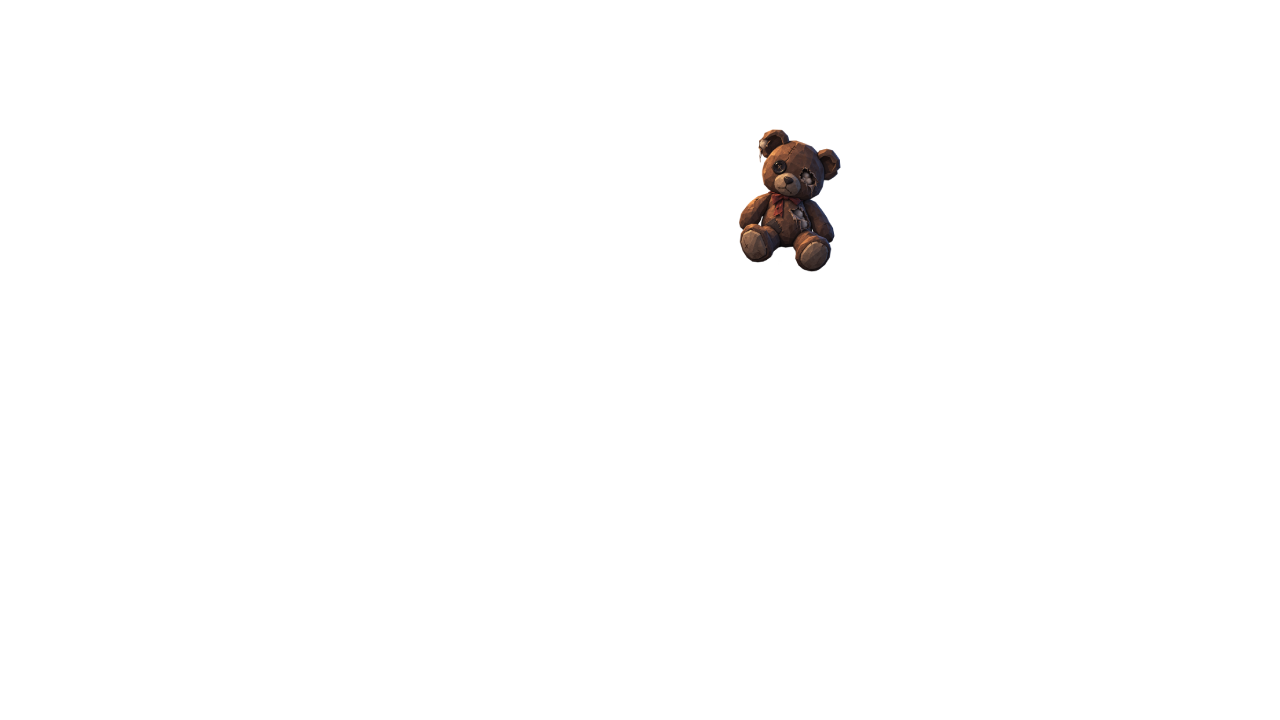
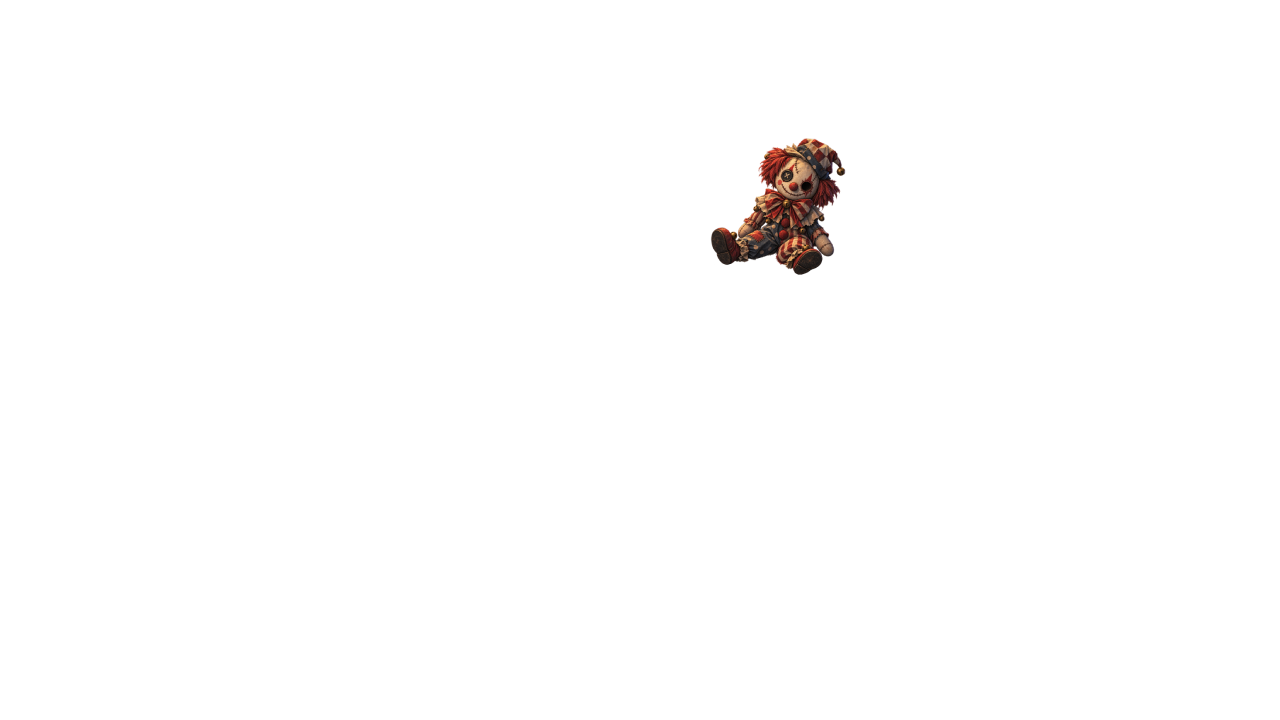
Add files via upload

Changed region(s): [[0.5312, 0.1833, 0.6562, 0.3972]]

diff --git a/game.html b/game.html
@@ -1341,6 +1341,7 @@
     "anomalyFiles": [
       "anomaly.png"
     ],
+    "anomaly2File": "anomaly_2.png",
     "spiderFrames": [
       "spider-1.png",
       "spider-2.png"
@@ -1659,6 +1660,11 @@
       12,
       14
     ]
+  },
+  "anomaly2": {
+    "enabled": true,
+    "startLevel": 10,
+    "allowedRooms": "all"
   },
   "spider": {
     "enabled": true,
@@ -2009,6 +2015,7 @@
       "levels.puzzleEndless.inOrderBatteryBonusSlots": [0, 12, true],
       "levels.puzzleEndless.tapTimeBonusSeconds": [0, 600, true],
       "levels.puzzleEndless.roomRotationEvery": [0, 1000000000, true],
+      "anomaly2.startLevel": [1, 1000000001, true],
       "anomaly.androidBrightness": [1, 2]
     });
     for (const name of ["puzzleEndless", "puzzleFlying", "singleRoomSequential", "singleRoomSpread", "singleRoomFixed"]) {
@@ -2028,7 +2035,7 @@
         value.every((level, index) => Number.isSafeInteger(level) && level >= 1 && level <= 1000000001 && (!index || level > value[index - 1]));
       if (/^levels\.(singleRoomSequential|singleRoomFixed)\.decoyChances$/.test(path)) return Array.isArray(value) && value.length >= 1 && value.length <= 32 &&
         value.every(chance => typeof chance === "number" && Number.isFinite(chance) && chance >= 0 && chance <= 1);
-      if (path === "anomaly.allowedRooms") return value === "all" || Array.isArray(value) && value.length <= 1000 &&
+      if (path === "anomaly.allowedRooms" || path === "anomaly2.allowedRooms") return value === "all" || Array.isArray(value) && value.length <= 1000 &&
         new Set(value).size === value.length && value.every(number => Number.isSafeInteger(number) && number >= 1 && number <= 1000000000);
       if (path === "doll.roomAssignments") return value !== null && typeof value === "object" && !Array.isArray(value) &&
         Object.keys(value).length <= 64 && Object.entries(value).every(([number, scenes]) =>
@@ -2270,9 +2277,6 @@
     let ROOM_NAME = "ROOM";
     let availableScenes = [];
     let currentScene = null;
-    let ANOMALY_FILES = CONFIG.assets.anomalyFiles;
-    let ANOMALY_CHECK_MS = CONFIG.anomaly.checkMs;
-    let ANOMALY_SPAWN_CHANCE = CONFIG.anomaly.spawnChance;
     let SPIDER_FRAME_FILES = CONFIG.assets.spiderFrames;
     let SPIDER_SOUND_FILE = CONFIG.assets.spiderSound;
     let SPIDER_CHECK_MS = CONFIG.spider.checkMs;
@@ -2294,9 +2298,6 @@
       WORDS_TIMEOUT_MS = CONFIG.loading.wordsTimeoutMs;
       LEVELS_DIRECTORY = CONFIG.assets.levelsDirectory;
       LEVEL_PROBE_GAP = CONFIG.loading.levelProbeGap;
-      ANOMALY_FILES = CONFIG.assets.anomalyFiles;
-      ANOMALY_CHECK_MS = CONFIG.anomaly.checkMs;
-      ANOMALY_SPAWN_CHANCE = CONFIG.anomaly.spawnChance;
       SPIDER_FRAME_FILES = CONFIG.assets.spiderFrames;
       SPIDER_SOUND_FILE = CONFIG.assets.spiderSound;
       SPIDER_CHECK_MS = CONFIG.spider.checkMs;
@@ -2656,8 +2657,8 @@
 
     let completedWordCount = 0;
     let roomCompleted = false;
-    let anomalyEnabled = false;
     let anomalyTimer = null;
+    let anomalyChecking = false;
     let anomalyActive = false;
     let anomalyHasBeenSeen = false;
     let anomalyMeta = null;
@@ -4190,10 +4191,7 @@
       dismissClueIntro();
       anchors.forEach(anchor => { anchor.hidden = true; });
       showCurrentLetter();
-      if (CONFIG.anomaly.enabled && levelIsUnlocked(CONFIG.anomaly.startLevel) && completedWordCount >= anomalyWordThreshold()) {
-        anomalyEnabled = true;
-        scheduleAnomalyCheck(encounterDelays?.anomaly);
-      }
+      scheduleAnomalyCheck(encounterDelays?.anomaly);
       scheduleNextHandCheck(encounterDelays?.hand);
       scheduleSpiderCheck(encounterDelays?.spider);
     }
@@ -5271,10 +5269,7 @@
       resumeLevelTimeouts();
       resumeCameraTimer();
       resumeSpiderEncounter();
-      if (!anomalyEnabled && CONFIG.anomaly.enabled && levelIsUnlocked(CONFIG.anomaly.startLevel) && completedWordCount >= anomalyWordThreshold()) {
-        anomalyEnabled = true;
-        scheduleAnomalyCheck();
-      }
+      scheduleAnomalyCheck();
       if (spiderTimer === null && !spiderActive) scheduleSpiderCheck();
       if (handTimer === null && !handVisible) scheduleNextHandCheck();
     }
@@ -5320,10 +5315,7 @@
         clearLevelTimeout(handTimer);
         stopSpiderEncounter();
       }
-      if (!endless && !roomCompleted && CONFIG.anomaly.enabled && !anomalyEnabled && levelIsUnlocked(CONFIG.anomaly.startLevel) && completedWordCount >= anomalyWordThreshold()) {
-        anomalyEnabled = true;
-        scheduleAnomalyCheck();
-      }
+      if (!endless && !roomCompleted) scheduleAnomalyCheck();
       if (!endless && !roomCompleted && !spiderActive && spiderTimer === null) scheduleSpiderCheck();
       message.classList.remove("show");
       refreshMessageBitmap();
@@ -6008,28 +6000,43 @@
       stopSpiderSound();
     }
 
-    function anomalyRoomIsAllowed(number = currentScene?.number) {
-      return CONFIG.anomaly.allowedRooms === "all" || CONFIG.anomaly.allowedRooms.includes(number);
+    function unlockedAnomalyVariants() {
+      if (completedWordCount < anomalyWordThreshold()) return [];
+      return [
+        { rules: CONFIG.anomaly, files: CONFIG.assets.anomalyFiles },
+        { rules: CONFIG.anomaly2, files: [CONFIG.assets.anomaly2File] }
+      ].filter(({ rules, files }) => rules.enabled && levelIsUnlocked(rules.startLevel) && files.length &&
+        (rules.allowedRooms === "all" || rules.allowedRooms.length));
     }
 
-    function scheduleAnomalyCheck(delay = ANOMALY_CHECK_MS) {
-      clearLevelTimeout(anomalyTimer);
-      anomalyTimer = null;
-      if (!CONFIG.anomaly.enabled || !levelIsUnlocked(CONFIG.anomaly.startLevel) || !anomalyEnabled || anomalyActive || gameOver || roomCompleted) return;
+    function scheduleAnomalyCheck(delay = CONFIG.anomaly.checkMs) {
+      if (anomalyTimer !== null || anomalyChecking || !gameplayStarted || anomalyActive || gameOver || roomCompleted ||
+          !unlockedAnomalyVariants().length) return;
       const generation = levelGeneration;
       anomalyTimer = levelTimeout(async () => {
         anomalyTimer = null;
-        if (!CONFIG.anomaly.enabled || !levelIsUnlocked(CONFIG.anomaly.startLevel) || !anomalyEnabled || anomalyActive || gameOver || roomCompleted) return;
-        if (anomalyRoomIsAllowed() && Math.random() < ANOMALY_SPAWN_CHANCE) {
-          const placed = await spawnAnomalyOffscreen();
-          if (generation === levelGeneration && !placed) scheduleAnomalyCheck();
-        } else {
+        if (anomalyActive || gameOver || roomCompleted) return;
+        const room = currentScene?.number;
+        const variants = unlockedAnomalyVariants().filter(({ rules }) =>
+          rules.allowedRooms === "all" || rules.allowedRooms.includes(room));
+        // One roll for both kinds, so the second doll doesn't double the spawn rate.
+        if (!variants.length || Math.random() >= CONFIG.anomaly.spawnChance) {
           scheduleAnomalyCheck();
+          return;
+        }
+        anomalyChecking = true;
+        try { await spawnAnomalyOffscreen(variants); }
+        catch (error) { console.warn("Could not place anomaly.", error); }
+        finally {
+          if (generation === levelGeneration) {
+            anomalyChecking = false;
+            scheduleAnomalyCheck();
+          }
         }
       }, delay);
     }
 
-    async function readAlphaBounds(src) {
+    async function readAlphaBounds(src, threshold = CONFIG.anomaly.alphaThreshold, knownArtwork = null) {
       return new Promise(resolve => {
         const img = new Image();
         img.onload = () => {
@@ -6043,7 +6050,7 @@
             let minX = canvas.width, minY = canvas.height, maxX = -1, maxY = -1;
             for (let y = 0; y < canvas.height; y++) {
               for (let x = 0; x < canvas.width; x++) {
-                if (data[(y * canvas.width + x) * 4 + 3] > CONFIG.anomaly.alphaThreshold) {
+                if (data[(y * canvas.width + x) * 4 + 3] > threshold) {
                   if (x < minX) minX = x;
                   if (x > maxX) maxX = x;
                   if (y < minY) minY = y;
@@ -6056,8 +6063,12 @@
               bbox: maxX >= minX ? { left: minX, top: minY, right: maxX + 1, bottom: maxY + 1 } : null
             });
           } catch (error) {
-            console.warn("Could not inspect anomaly alpha bounds; using full image bounds.", error);
-            resolve({ src, width: img.naturalWidth, height: img.naturalHeight, bbox: { left: 0, top: 0, right: img.naturalWidth, bottom: img.naturalHeight } });
+            const width = img.naturalWidth, height = img.naturalHeight;
+            if (knownArtwork?.width === width && knownArtwork.height === height) resolve({ src, width, height, bbox: knownArtwork.bbox });
+            else {
+              console.warn("Could not inspect anomaly alpha bounds; using full image bounds.", error);
+              resolve({ src, width, height, bbox: { left: 0, top: 0, right: width, bottom: height } });
+            }
           }
         };
         img.onerror = () => resolve(null);
@@ -6085,41 +6096,46 @@
       return a.left < b.right && a.right > b.left;
     }
 
-    async function spawnAnomalyOffscreen() {
-      if (gameplayPaused || endlessIntermission || menuPage !== null || !CONFIG.anomaly.enabled || !levelIsUnlocked(CONFIG.anomaly.startLevel) || !anomalyRoomIsAllowed() || anomalyActive || gameOver || roomCompleted || !renderedVideoWidth) return false;
+    async function spawnAnomalyOffscreen(variants) {
       const generation = levelGeneration;
       const spawnRoomIndex = activeRoomIndex;
-      const src = ANOMALY_FILES[Math.floor(Math.random() * ANOMALY_FILES.length)];
-      const meta = await readAlphaBounds(src);
-      if (generation !== levelGeneration || gameplayPaused || endlessIntermission || menuPage !== null || !meta || !meta.bbox || !CONFIG.anomaly.enabled || !levelIsUnlocked(CONFIG.anomaly.startLevel) || !anomalyRoomIsAllowed() || gameOver || roomCompleted || spawnRoomIndex !== activeRoomIndex) return false;
+      const canPlace = () => generation === levelGeneration && spawnRoomIndex === activeRoomIndex &&
+        !gameplayPaused && !endlessIntermission && menuPage === null && !gameOver && !roomCompleted && !anomalyActive && renderedVideoWidth > 0;
+      if (!canPlace()) return false;
+      for (const { files } of shuffleArray([...variants])) {
+        for (const src of shuffleArray([...files])) {
+          const threshold = CONFIG.anomaly.alphaThreshold;
+          // Local browsers can forbid canvas reads of file:// images. This
+          // fallback is measured from the supplied anomaly_2.png, used only
+          // for that file at its original dimensions. Live pixels take precedence.
+          const knownArtwork = new URL(src, document.baseURI).href === new URL(CONFIG_DEFAULTS.assets.anomaly2File, document.baseURI).href
+            ? { width: 1280, height: 720, bbox: { left: 0, top: 328, right: threshold === 8 ? 284 : 285, bottom: 720 } }
+            : null;
+          const meta = await readAlphaBounds(src, threshold, knownArtwork);
+          if (!canPlace()) return false;
+          if (!meta?.bbox) continue;
 
-      // The anomaly PNG is authored against the same full 1280x720 scene as
-      // the video. Keep the PNG fixed at the scene origin so its opaque pixels
-      // always land at their authored location; only the panorama itself pans.
-      const bbox = getScaledAnomalyBox(meta);
+          // The image stays aligned to the panorama; only its opaque artwork
+          // must be outside the viewport before it can spawn.
+          const bbox = getScaledAnomalyBox(meta);
+          const visible = currentVisibleWorldRange(), pad = CONFIG.anomaly.offscreenMarginPx;
+          if (horizontalBoxesIntersect(bbox, { left: visible.left - pad, right: visible.right + pad })) continue;
 
-      // Spawn only while the anomaly's ACTUAL non-transparent pixels are fully
-      // outside the current viewport. If its authored location is visible now,
-      // skip this checkpoint and try again on the next anomaly check.
-      const visible = currentVisibleWorldRange();
-      const edgePad = CONFIG.anomaly.offscreenMarginPx;
-      if (horizontalBoxesIntersect(
-        { left: bbox.left, right: bbox.right },
-        { left: visible.left - edgePad, right: visible.right + edgePad }
-      )) return false;
-
-      anomalyRoomIndex = activeRoomIndex;
-      anomalyWorld.style.display = "";
-      anomalyMeta = meta;
-      anomalyWorldBox = bbox;
-      anomalyHasBeenSeen = false;
-      anomalyActive = true;
-      anomalyImage.src = src;
-      setOverlayImageStyles(anomalyImage, anomalyBitmap, { left: "0px", top: "0px",
-        height: `${viewport.getBoundingClientRect().height}px`, width: `${renderedVideoWidth}px`, display: "block" });
-      anomalyWorld.style.width = `${renderedVideoWidth}px`;
-      anomalyWorld.style.height = `${viewport.getBoundingClientRect().height}px`;
-      return true;
+          anomalyRoomIndex = activeRoomIndex;
+          anomalyWorld.style.display = "";
+          anomalyMeta = meta;
+          anomalyWorldBox = bbox;
+          anomalyHasBeenSeen = false;
+          anomalyActive = true;
+          anomalyImage.src = src;
+          setOverlayImageStyles(anomalyImage, anomalyBitmap, { left: "0px", top: "0px",
+            height: `${viewport.getBoundingClientRect().height}px`, width: `${renderedVideoWidth}px`, display: "block" });
+          anomalyWorld.style.width = `${renderedVideoWidth}px`;
+          anomalyWorld.style.height = `${viewport.getBoundingClientRect().height}px`;
+          return true;
+        }
+      }
+      return false;
     }
 
     function updateAnomalyVisibilityState({ allowClear = true } = {}) {
@@ -7251,7 +7267,7 @@
       handBlocker.className = "";
       handBlocker.setAttribute("aria-hidden", "true");
       setOverlayImageStyles(handImage, handBitmap, { transition: "", transform: "" });
-      anomalyEnabled = anomalyActive = anomalyHasBeenSeen = false;
+      anomalyChecking = anomalyActive = anomalyHasBeenSeen = false;
       anomalyRoomIndex = spiderRoomIndex = -1;
       anomalyMeta = anomalyWorldBox = null;
       clearAnomalyArtwork();
